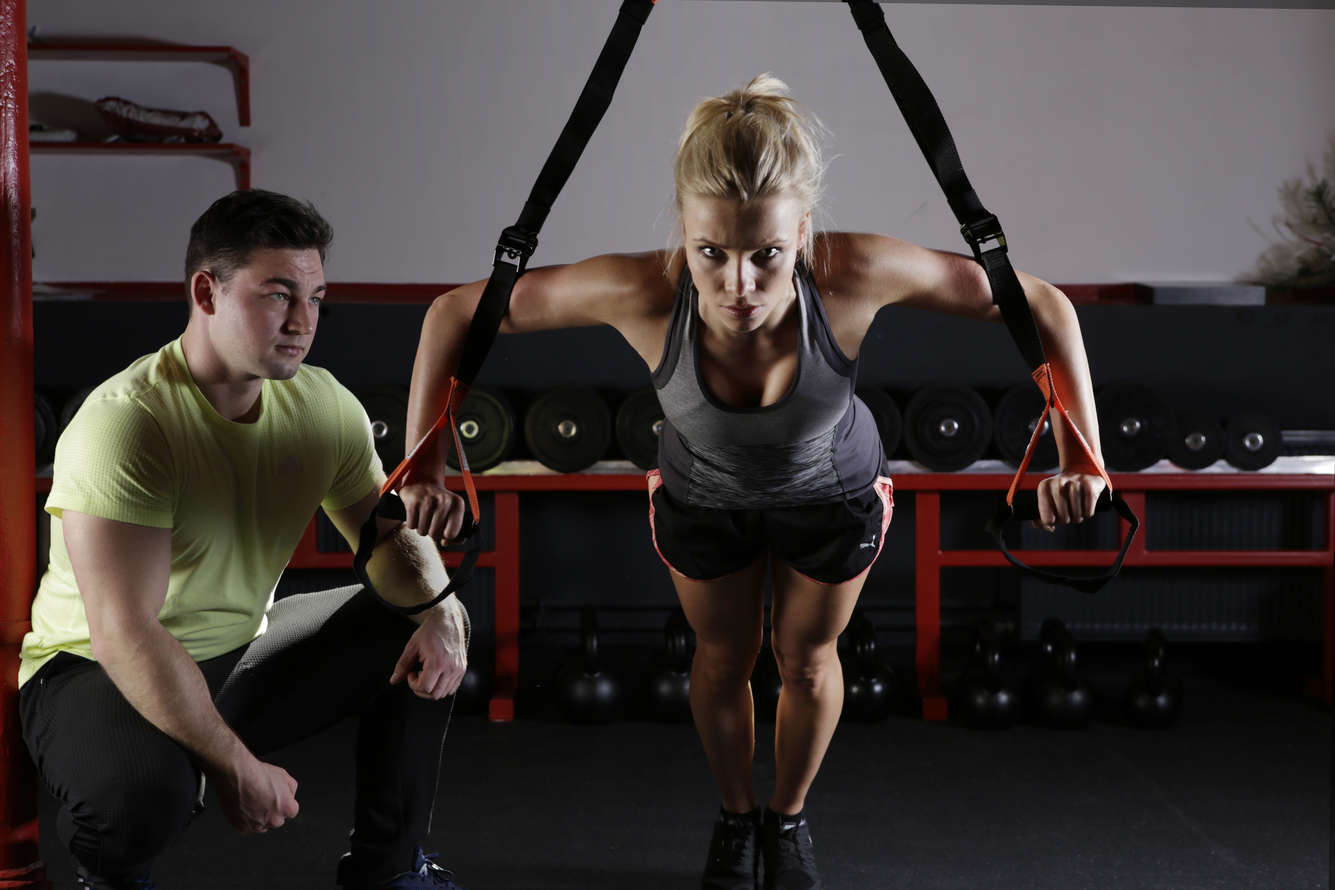
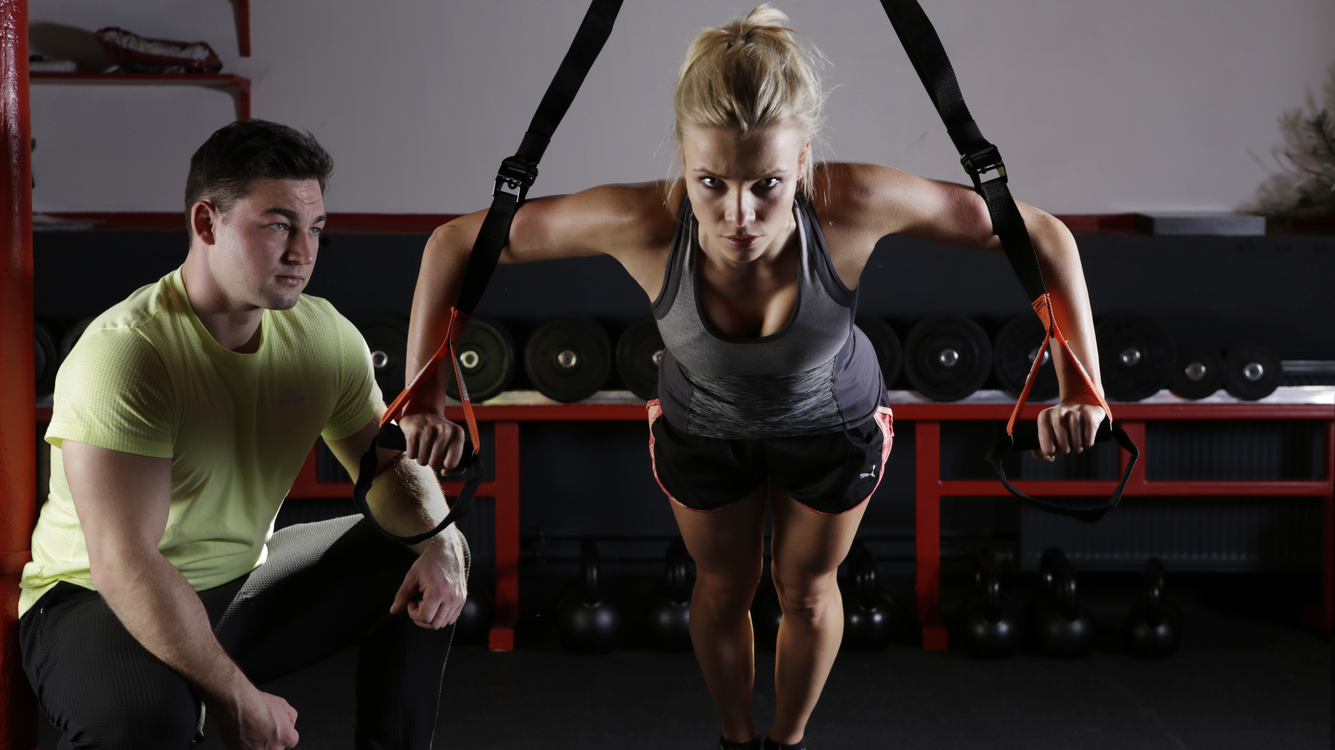
parallax component added

diff --git a/index.html b/index.html
@@ -5,6 +5,8 @@
 	<meta name="viewport" content="width=device-width, initial-scale=1">
 	<title>All Fitness</title>
 	<link rel="stylesheet" href="https://maxcdn.bootstrapcdn.com/bootstrap/4.0.0/css/bootstrap.min.css">
+	<link href="https://fonts.googleapis.com/css2?family=Rye&display=swap" rel="stylesheet">
+	<link href="https://fonts.googleapis.com/css2?family=Amita:wght@400;700&display=swap" rel="stylesheet">
 	<script src="https://ajax.googleapis.com/ajax/libs/jquery/3.3.1/jquery.min.js"></script>
 	<script src="https://cdnjs.cloudflare.com/ajax/libs/popper.js/1.12.9/umd/popper.min.js"></script>
 	<script src="https://maxcdn.bootstrapcdn.com/bootstrap/4.0.0/js/bootstrap.min.js"></script>
@@ -57,5 +59,45 @@
 			</div>
 		</div>
 	</div>
+
+	<!-- Fixed background -->
+	<!-- <figure>
+		<div class="fixed-wrap">
+			<div id="fixed">
+				<h1>hello</h1>
+			</div>
+		</div>
+	</figure>
+	<div style="position: relative;">
+		<h1>Hello outside</h1>
+	</div> -->
+
+	<br>
+
+	<div class="parallax">
+		<div class="fixed-text">
+			<h1>Hello visitors . . .</h1>
+			<hr style="background-color: white;">
+			<P>
+				Founded by two fitness freaks <i>Andy</i> and <i>Lucy</i>, <strong><i>ALL FITNESS</i></strong>
+				is focused at providing the best fitness workouts and exercises plans with proper guidance.
+				Being physically and mentally fit is necessary for an individual to live a happy, longer life. 
+				Typically, exercise is one of the best ways to keep a person healthy. Hence, no matter how busy 
+				you are, it’s always best to find time to do workout routine. With the numerous diseases that 
+				spread in the world today, many individuals realized the essence of workout. 
+			</P>
+			<P>
+				Specifically, 
+				having workout routine will give an individual the greatest benefit in physical, mental and 
+				social aspects. Accordingly, exercise will not just help you increase energy levels, reduce risk 
+				of chronic disease and lose weight but will also help improve brain health and memory. With such 
+				benefits, you probably will love to do workout routines soon.
+			</P>
+			<p>
+				So come here at ALL FITNESS and buckle up to get a fit and healthy body in months.
+			</p>
+		</div>
+	</div>
+
 </body>
 </html>

diff --git a/style.css b/style.css
@@ -135,3 +135,75 @@ body {
       padding: 0.7rem;
     }
   }
+
+
+
+
+
+
+  /*--- Fixed Background Image --*/
+/* figure {
+  position: relative;
+  width: 100%;
+  height: 60%;
+  margin: 0 !important;
+}
+
+.fixed-wrap {
+  clip: rect(0, auto, auto, 0);
+  position: absolute;
+  top: 0;
+  left: 0;
+  width: 100%;
+  height: 100%;
+}
+
+#fixed {
+  background-image: url('img/stephanie-greene.jpg');
+  position: fixed;
+  display: block;
+  top: 0;
+  left: 0;
+  width: 100%;
+  height: 100%;
+  background-size: cover;
+  background-position: center center;
+  -webkit-transform: translateZ(0);
+  transform: translateZ(0);
+  will-change: transform;
+} */
+
+.parallax {
+  /* The image used */
+  background-image: url("img/stephanie-greene.jpg");
+
+  /* Set a specific height */
+  min-height: 500px; 
+
+  /* Create the parallax scrolling effect */
+  background-attachment: fixed;
+  background-position: center;
+  background-repeat: no-repeat;
+  background-size: cover;
+}
+
+.fixed-text {
+  padding: 10px 20px;
+  font-family: 'Rye', cursive;
+  color: rgba(255, 255, 255, 0.822);
+  /*background-color: rgba(0, 0, 0, 0.6);*/
+  font-weight: 500;
+  position: relative;
+  text-align: justify;
+  text-shadow: 1px 1px 10px black;
+}
+
+.fixed-text p {
+  font-family: 'Amita', cursive;
+  font-size: 30px;
+}
+
+/*--- Bootstrap Padding Fix --*/
+[class*="col-"] {
+  padding: 1rem;
+}
